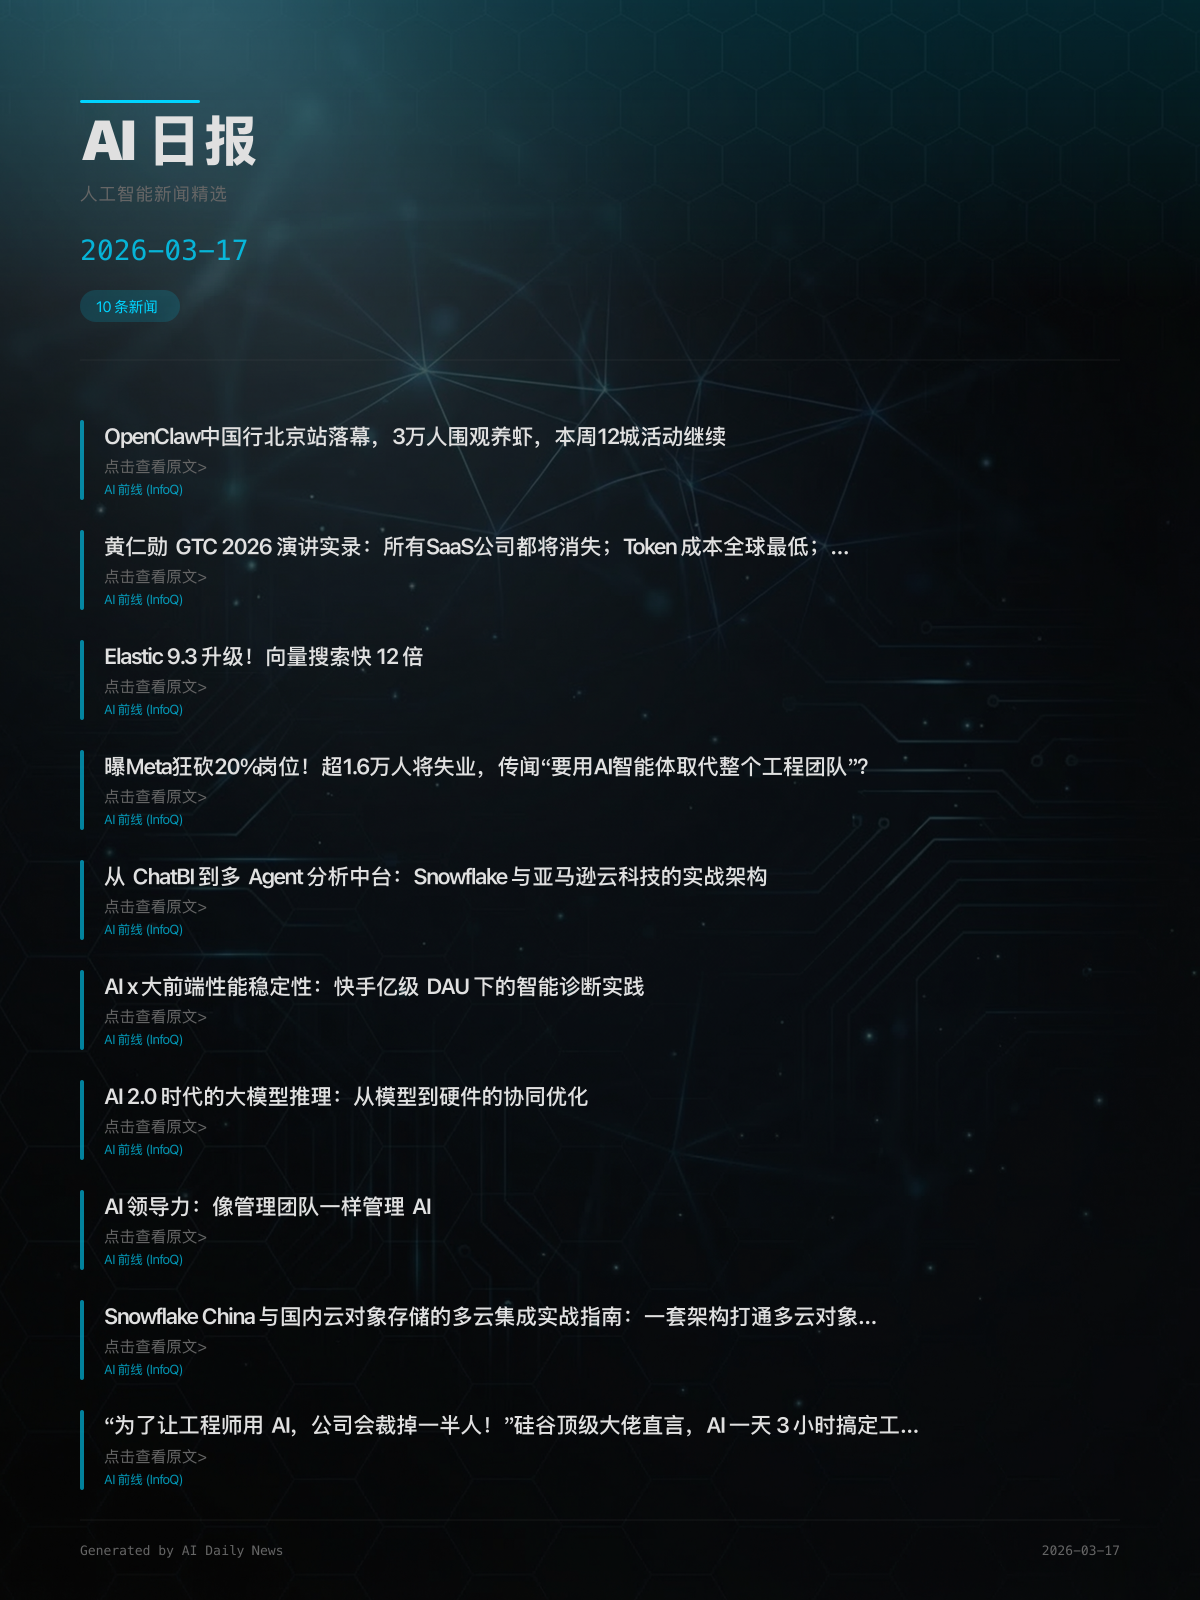
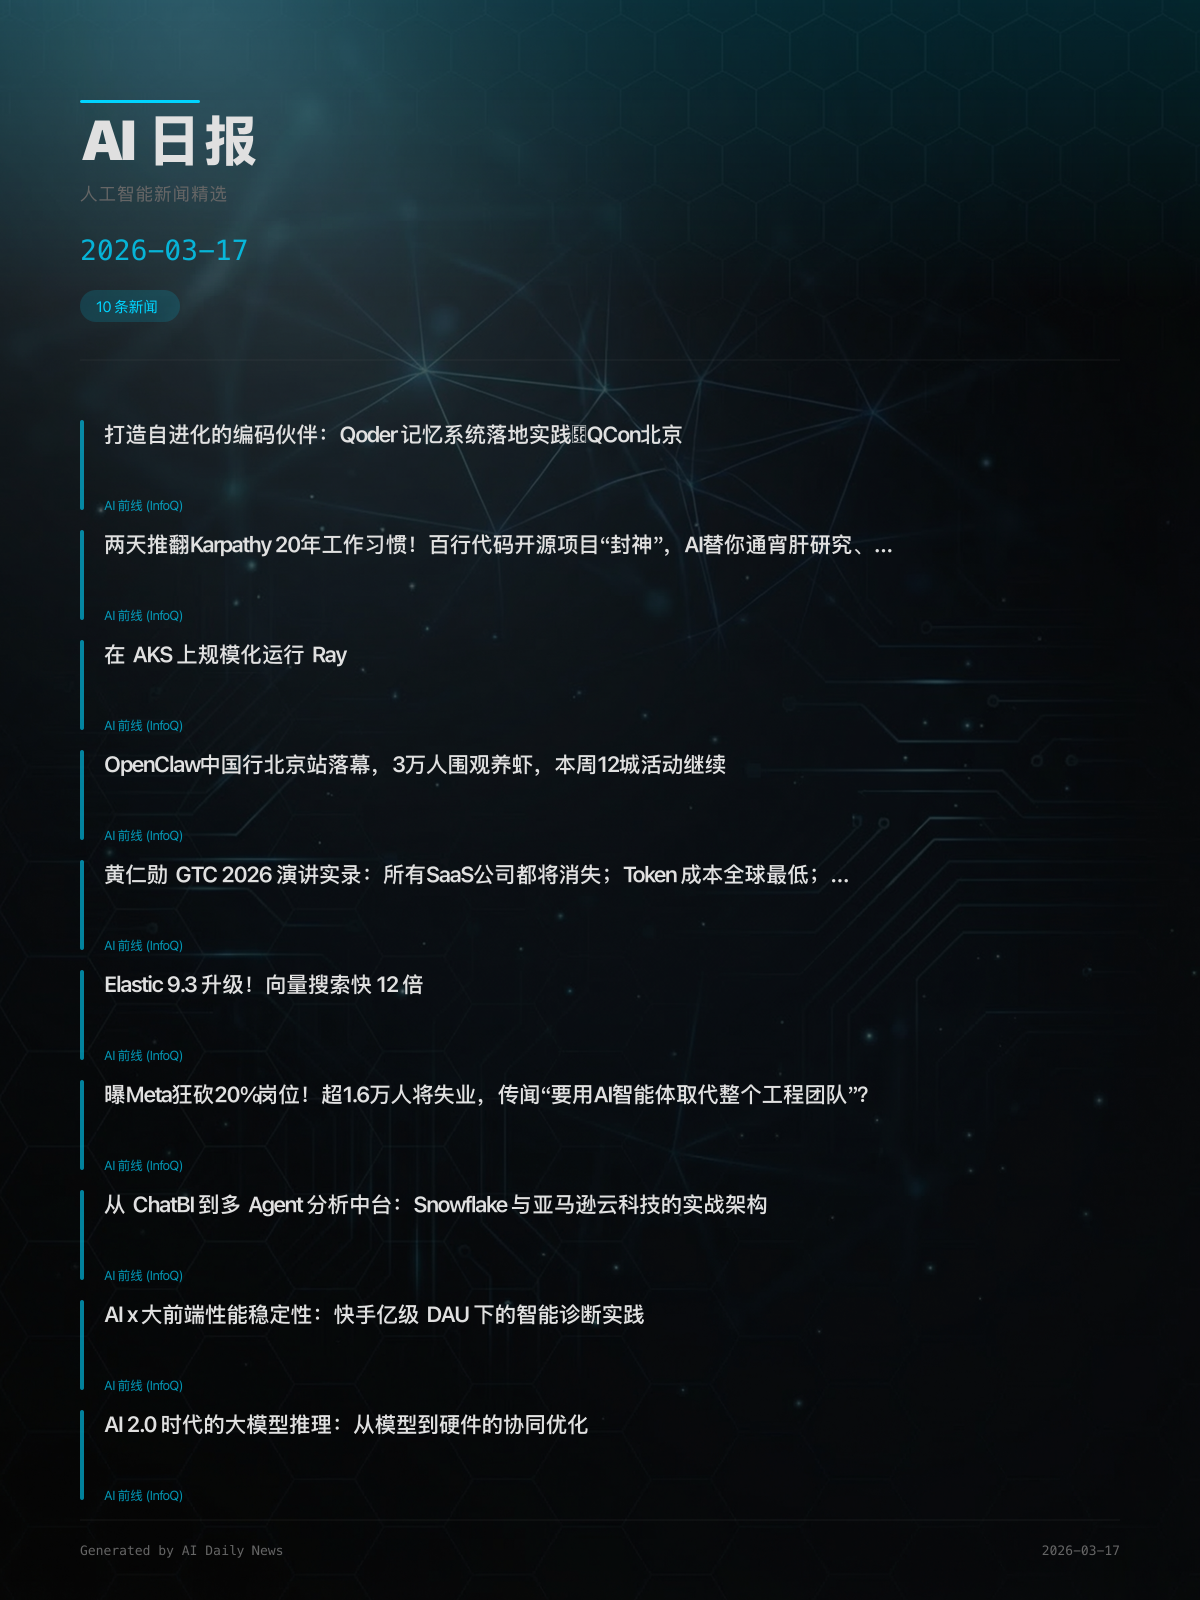
fix: hide junk summaries (点击查看原文), word-boundary truncation, brighter secondary text

Changed region(s): [[0.0925, 0.25, 0.74, 0.9375], [0.6475, 0.6562, 0.7092, 0.6875]]

diff --git a/src/image/generate.js b/src/image/generate.js
@@ -29,25 +29,36 @@ export async function generateShareImage(digest, imageConfig, outputPath) {
     backgroundColor = '#0a0a0a',
     accentColor = '#00d4ff',
     textColor = '#e0e0e0',
-    secondaryColor = '#666666',
+    secondaryColor = '#888888',
   } = imageConfig;
 
   const theme = THEMES[digest.lang] || THEMES.en;
   const items = digest.items?.slice(0, 10) || [];
   const date = digest.date || new Date().toISOString().slice(0, 10);
 
-  // Build SVG
+  // Build SVG — each item: title + 2 lines of summary + source
+  const maxSummaryChars = 55; // chars per summary line
   const itemsSVG = items.map((item, i) => {
     const y = 420 + i * 110;
     const title = escapeXml(truncate(item.title, 45));
-    const summary = escapeXml(truncate(item.summary, 60));
     const source = escapeXml(item.source || '');
+
+    // Split summary into 2 lines (skip junk like "点击查看原文")
+    const rawSummary = item.summary || '';
+    const isJunk = /^[\s]*[点击查看原文>›»→…]*[\s]*$/.test(rawSummary) || rawSummary.length < 10;
+    const fullSummary = isJunk ? '' : rawSummary;
+    const line1 = fullSummary ? escapeXml(truncateAtWord(fullSummary, maxSummaryChars)) : '';
+    const cutLen = truncateAtWord(fullSummary, maxSummaryChars).length;
+    const remaining = fullSummary.length > cutLen ? fullSummary.slice(cutLen).trimStart() : '';
+    const line2 = remaining ? escapeXml(truncateAtWord(remaining, maxSummaryChars)) : '';
+
     return `
       <g transform="translate(80, ${y})">
-        <rect x="0" y="0" width="4" height="80" fill="${accentColor}" opacity="0.6" rx="2"/>
-        <text x="24" y="24" font-family="system-ui, -apple-system, sans-serif" font-size="22" font-weight="600" fill="${textColor}">${title}</text>
-        <text x="24" y="52" font-family="system-ui, -apple-system, sans-serif" font-size="16" fill="${secondaryColor}">${summary}</text>
-        <text x="24" y="74" font-family="system-ui, -apple-system, sans-serif" font-size="13" fill="${accentColor}" opacity="0.7">${source}</text>
+        <rect x="0" y="0" width="4" height="90" fill="${accentColor}" opacity="0.6" rx="2"/>
+        <text x="24" y="22" font-family="system-ui, -apple-system, sans-serif" font-size="22" font-weight="600" fill="${textColor}">${title}</text>
+        <text x="24" y="48" font-family="system-ui, -apple-system, sans-serif" font-size="15" fill="${secondaryColor}">${line1}</text>
+        ${line2 ? `<text x="24" y="68" font-family="system-ui, -apple-system, sans-serif" font-size="15" fill="${secondaryColor}">${line2}</text>` : ''}
+        <text x="24" y="90" font-family="system-ui, -apple-system, sans-serif" font-size="13" fill="${accentColor}" opacity="0.7">${source}</text>
       </g>`;
   }).join('\n');
 
@@ -118,4 +129,15 @@ function escapeXml(str) {
 function truncate(str, max) {
   if (!str) return '';
   return str.length > max ? str.slice(0, max - 1) + '…' : str;
+}
+
+function truncateAtWord(str, max) {
+  if (!str) return '';
+  if (str.length <= max) return str;
+  // For CJK text, cut at char boundary; for Latin, try word boundary
+  const cut = str.slice(0, max);
+  const lastSpace = cut.lastIndexOf(' ');
+  // If mostly CJK (no spaces found in first half), just cut at max
+  if (lastSpace <= max * 0.3) return cut.trimEnd() + '…';
+  return cut.slice(0, lastSpace).trimEnd() + '…';
 }

diff --git a/output/2026-03-17/digest-zh.md b/output/2026-03-17/digest-zh.md
@@ -3,6 +3,18 @@
 
 ## 新闻
 
+### 打造自进化的编码伙伴：Qoder 记忆系统落地实践｜QCon北京
+点击查看原文>
+🔗 [AI 前线 (InfoQ)](https://www.infoq.cn/article/t1WJGcChOvyEUYhZB2C6?utm_source=rss&utm_medium=article)
+
+### 两天推翻Karpathy 20年工作习惯！百行代码开源项目“封神”，AI替你通宵肝研究、战绩可查
+点击查看原文>
+🔗 [AI 前线 (InfoQ)](https://www.infoq.cn/article/hioSraQHDw53VwP9glyq?utm_source=rss&utm_medium=article)
+
+### 在 AKS 上规模化运行 Ray
+点击查看原文>
+🔗 [AI 前线 (InfoQ)](https://www.infoq.cn/article/3vTFH7QGA4YHhENRqVVb?utm_source=rss&utm_medium=article)
+
 ### OpenClaw中国行北京站落幕，3万人围观养虾，本周12城活动继续
 点击查看原文>
 🔗 [AI 前线 (InfoQ)](https://www.infoq.cn/article/DqE30rlz0ZXXrBJjjIMf?utm_source=rss&utm_medium=article)
@@ -50,15 +62,3 @@
 ### 地瓜机器人完成1.2亿美元B1轮融资，多家大厂都投了
 点击查看原文>
 🔗 [AI 前线 (InfoQ)](https://www.infoq.cn/article/VAJUJjHTi7VyFPrBV1Q8?utm_source=rss&utm_medium=article)
-
-### Grok编程掉队，马斯克怒了：xAI裁员、清洗联创，放话3个月追上OpenAI、Anthropic
-点击查看原文>
-🔗 [AI 前线 (InfoQ)](https://www.infoq.cn/article/CUFmTdZvl9ju5YLeeImJ?utm_source=rss&utm_medium=article)
-
-### 阿里中国电商事业群、飞猪CTO 陈烨博士已确认出席QCon北京站，分享消费级智能体的演进
-点击查看原文>
-🔗 [AI 前线 (InfoQ)](https://www.infoq.cn/article/1eaUWzjcSYXh0C6D4xK0?utm_source=rss&utm_medium=article)
-
-### 字节暂停Seedance2.0全球发布，回应武汉全员被裁；曝梁文锋将携DeepSeek V4撞上姚顺雨；央视315曝给AI大模型投毒已成产业链 | AI周报
-点击查看原文>
-🔗 [AI 前线 (InfoQ)](https://www.infoq.cn/article/5ZXUYlk07YF3WGSEG5uC?utm_source=rss&utm_medium=article)
